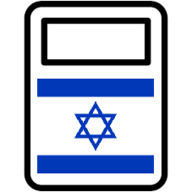
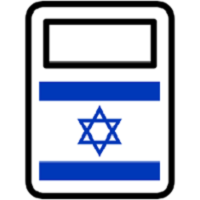
made image 200x200 to fit facebook requirements

Changed region(s): [[0.125, 0.0, 0.875, 1.0]]

diff --git a/_site/index.html b/_site/index.html
@@ -12,15 +12,13 @@
 <meta property="og:locale" content="en_US" />
 <meta name="description" content="See if you’re eligible for an income tax refund in Israel." />
 <meta property="og:description" content="See if you’re eligible for an income tax refund in Israel." />
-<link rel="canonical" href="http://localhost:4000/" />
-<meta property="og:url" content="http://localhost:4000/" />
 <meta property="og:site_name" content="Israel Tax Calculator" />
-<meta property="og:image" content="http://localhost:4000/images/icon.png" />
+<meta property="og:image" content="/images/icon.png" />
 <script type="application/ld+json">
-{"url":"http://localhost:4000/","image":"http://localhost:4000/images/icon.png","headline":"Israel Tax Calculator (Annual)","description":"See if you’re eligible for an income tax refund in Israel.","name":"Israel Tax Calculator","@type":"WebSite","@context":"http://schema.org"}</script>
+{"url":"/","image":"/images/icon.png","headline":"Israel Tax Calculator (Annual)","description":"See if you’re eligible for an income tax refund in Israel.","name":"Israel Tax Calculator","@type":"WebSite","@context":"http://schema.org"}</script>
 <!-- End Jekyll SEO tag -->
 
-    <link rel="stylesheet" href="/assets/css/style.css?v=0faa2ec609aa2dd048059fcbc7b438b1142b0f7b">
+    <link rel="stylesheet" href="/assets/css/style.css?v=c580fb99b6dc61a9a3bde6199724e241b032a1f2">
 	<link rel="icon" type="image/x-icon" href="favicon.ico?v1">
     <!--[if lt IE 9]>
     <script src="//cdnjs.cloudflare.com/ajax/libs/html5shiv/3.7.3/html5shiv.min.js"></script>
@@ -29,7 +27,7 @@
   <body>
     <div class="wrapper">
       <header>
-        <h1><a href="http://localhost:4000/">Israel Tax Calculator</a></h1>
+        <h1><a href="/">Israel Tax Calculator</a></h1>
         
         
 
